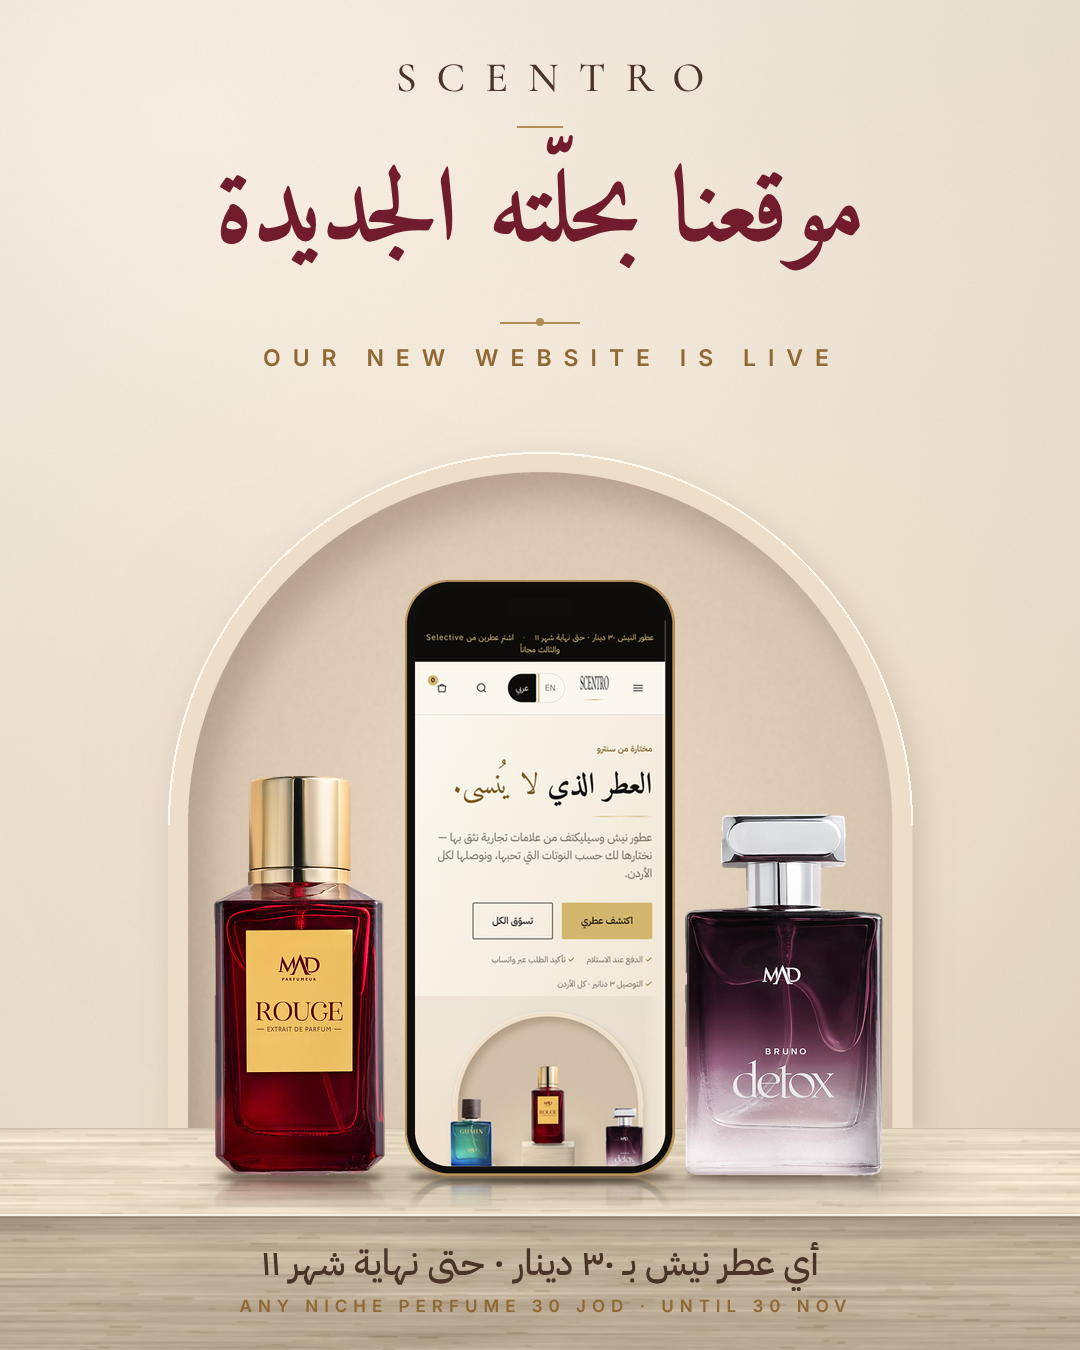
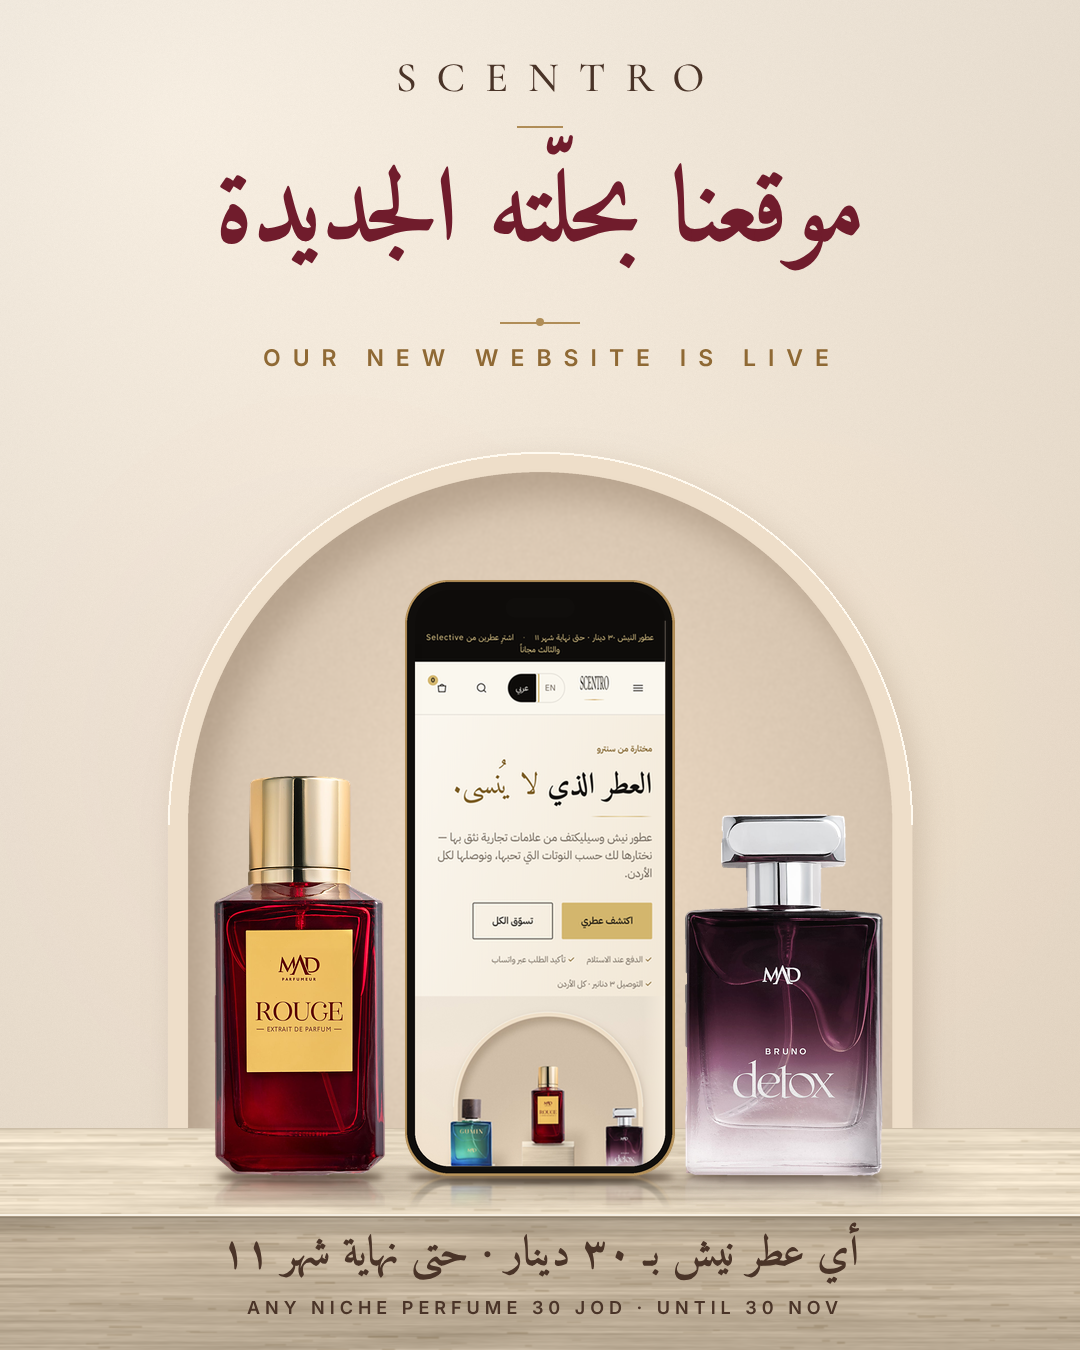
Launch post/story: offer line in Amiri, English line in dark brown for legibility
Claude-Session: https://claude.ai/code/session_01UApyk7Kdwc7MEVpfJtnJsr

diff --git a/scentro/stories/build_launch.py b/scentro/stories/build_launch.py
@@ -41,8 +41,8 @@ html,body{margin:0;background:transparent;width:1080px;height:1920px;overflow:hi
 .rule2{position:absolute;left:500px;top:528px;width:80px;height:2px;background:#B08D57}.dot{position:absolute;left:536px;top:524px;width:8px;height:8px;border-radius:50%;background:#B08D57}
 .sub{top:548px;font:600 24px 'Inter',sans-serif;letter-spacing:12px;color:#8F6934;padding-left:12px}
 .url{top:1452px;font:600 64px 'Cormorant Garamond',serif;letter-spacing:3px;color:#4A3428}
-.ofa{top:1478px;font:500 38px 'IBM Plex Sans Arabic',sans-serif;color:#4A3428}
-.ofe{top:1540px;font:600 18px 'Inter',sans-serif;letter-spacing:6px;color:#8F6934;padding-left:6px}
+.ofa{top:1466px;font:700 46px/1.3 'Amiri',serif;color:#4A3428}
+.ofe{top:1540px;font:600 20px 'Inter',sans-serif;letter-spacing:5px;color:#4A3428;padding-left:5px}
 </style></head><body>
 <div class="t logo">SCENTRO</div><div class="rule"></div>
 <div class="t h">موقعنا بحلّته الجديدة</div>

diff --git a/scentro/stories/build_launch_post.py b/scentro/stories/build_launch_post.py
@@ -20,8 +20,8 @@ html,body{margin:0;background:transparent;width:1080px;height:1350px;overflow:hi
 .h{top:150px;font:700 104px/1.25 'Amiri',serif;color:#701C2C}
 .rule2{position:absolute;left:500px;top:322px;width:80px;height:2px;background:#B08D57}.dot{position:absolute;left:536px;top:318px;width:8px;height:8px;border-radius:50%;background:#B08D57}
 .sub{top:344px;font:600 23px 'Inter',sans-serif;letter-spacing:12px;color:#8F6934;padding-left:12px}
-.ofa{top:1236px;font:500 36px 'IBM Plex Sans Arabic',sans-serif;color:#4A3428}
-.ofe{top:1296px;font:600 17px 'Inter',sans-serif;letter-spacing:6px;color:#8F6934;padding-left:6px}
+.ofa{top:1228px;font:700 42px/1.3 'Amiri',serif;color:#4A3428}
+.ofe{top:1297px;font:600 18px 'Inter',sans-serif;letter-spacing:5px;color:#4A3428;padding-left:5px}
 </style></head><body>
 <div class="t logo">SCENTRO</div><div class="rule"></div>
 <div class="t h">موقعنا بحلّته الجديدة</div>
